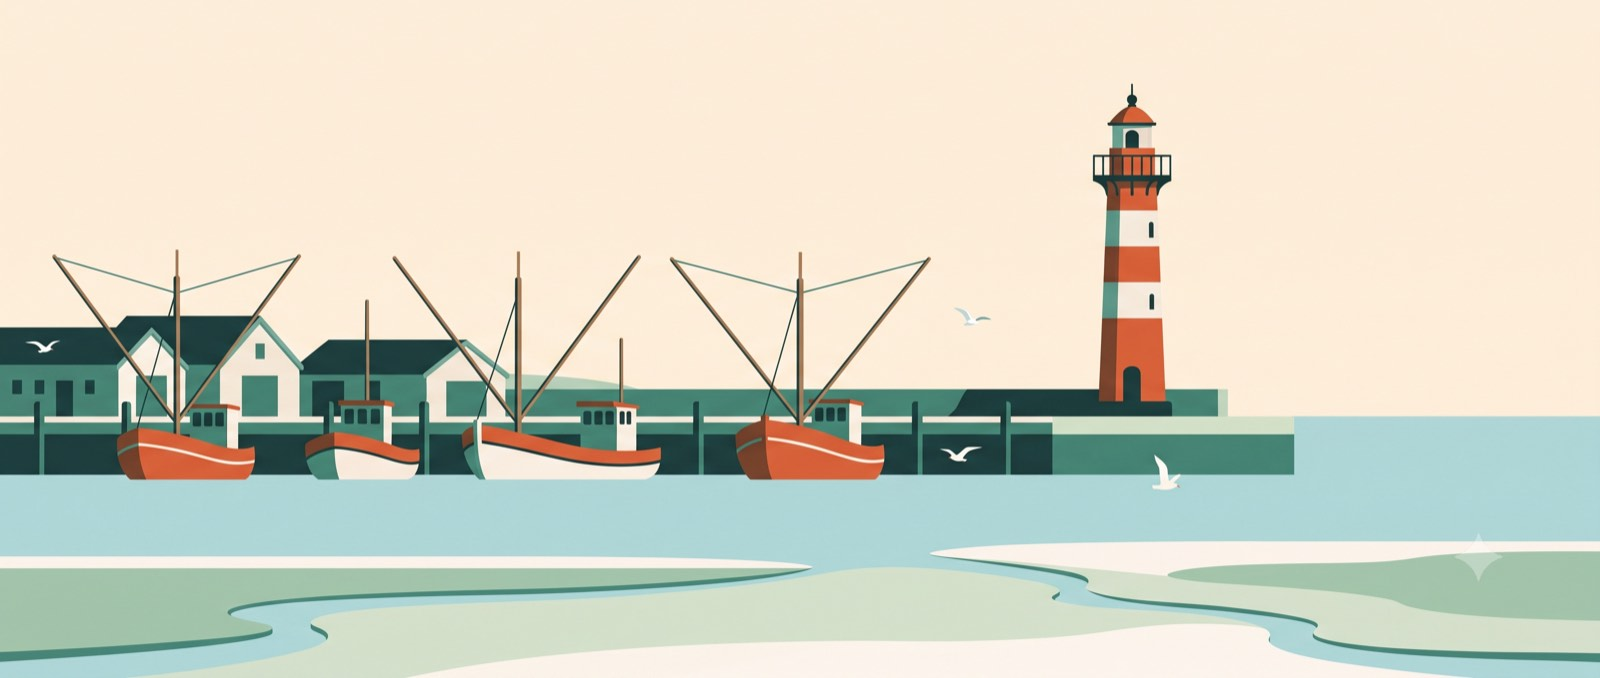
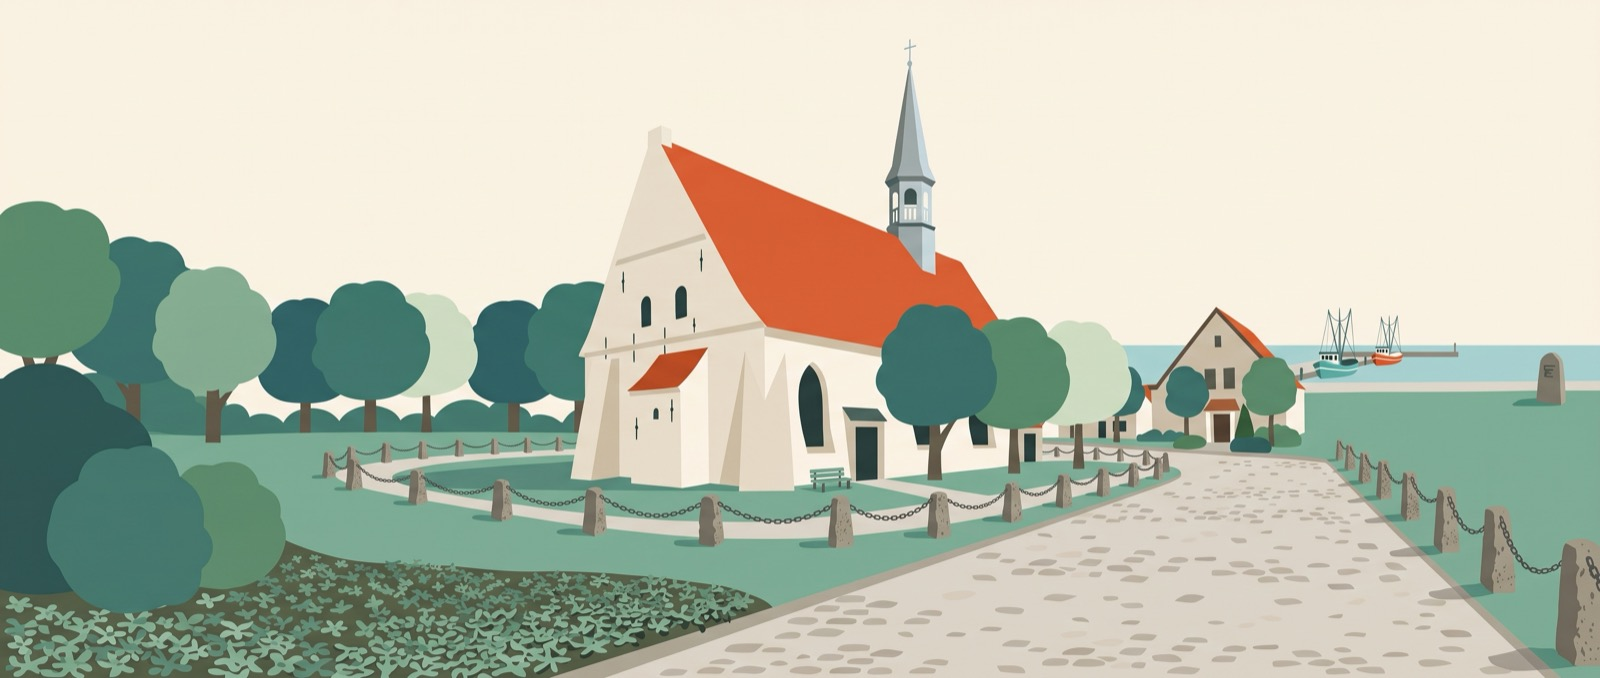
feat: Kirchen aller Gemeinden in App und auf der Landingpage
Fünf weitere Motive (Wöhrden, Süderdithmarscher Köge, Neuenkirchen, Wesseln,
Hemmingstedt) schließen die letzten Lücken: Von 514 Terminen ohne eigenes Foto
zeigen jetzt 504 die Kirche ihrer Gemeinde statt eines Landschaftsbildes — 98 %
statt zuvor 92 %.

Drei weitere Schlüssel tragen ein Präfix aus ChurchDesk ("kirche wesseln",
"kg hemmingstedt") oder fassen mehrere Orte zusammen ("vereinigte
süderdithmarscher köge"). Dass `parish` vor `city` geprüft wird, löst auch die
Grenzfälle richtig auf: Ein Termin des Kirchspiels Neuenkirchen in der Stadt
Wesselburen bekommt die Neuenkirchener Kirche — und umgekehrt.

Auf der Landingpage stehen nun alle Gemeinden im selben Dreier-Raster, jede
gleich groß und mit Namen; vorher hatten vier Orte große Kacheln und der Rest
kam nicht vor. Der Bildausschnitt sitzt höher, damit die Türme nicht oben
abgeschnitten werden — daran erkennt man die Kirche. Nur das Kohlfeld steht
weiterhin breit am Ende, weil es für keine Gemeinde steht.

Claude-Session: https://claude.ai/code/session_01T2rXfny4vsRw1Pe3vE1mct

diff --git a/apps/web/index.html b/apps/web/index.html
@@ -144,17 +144,24 @@
   .places{padding:var(--space-4xl) 0 var(--space-sm)}
   .places h2{margin-bottom:var(--space-sm)}
   .places .sub{color:var(--muted);margin:0 0 var(--space-xxl);max-width:52ch}
-  .place-grid{display:grid;grid-template-columns:repeat(2,1fr);gap:var(--space-xl)}
+  /* Alle Gemeinden gleich groß, zu dritt: keine bekommt eine größere Kachel als
+     die andere — die Kirchen stehen nebeneinander, nicht in einer Rangfolge. */
+  .place-grid{display:grid;grid-template-columns:repeat(3,1fr);gap:var(--space-lg)}
   .place{margin:0;border-radius:var(--radius-lg);overflow:hidden;background:var(--surface);border:1px solid var(--border)}
-  .place img{display:block;width:100%;height:clamp(130px,17vw,190px);object-fit:cover;object-position:center 62%}
+  /* `center 45%`: in der flachen Kachel schnitte ein tieferer Ausschnitt die
+     Turmspitzen ab — und der Turm ist das, woran man die Kirche erkennt. */
+  .place img{display:block;width:100%;height:clamp(110px,12vw,150px);object-fit:cover;object-position:center 45%}
   .place figcaption{
-    padding:var(--space-md) var(--space-lg);font-weight:600;font-size:var(--text-body);color:var(--ink);
+    padding:var(--space-sm) var(--space-md);font-weight:600;font-size:var(--text-label);color:var(--ink);
     border-top:1px solid var(--border);
   }
+  /* Das Landschaftsmotiv steht für keine Gemeinde und schließt die Reihe ab —
+     als einziges über die volle Breite, ohne Bildunterschrift-Betonung. */
   .place-wide{grid-column:1 / -1}
-  .place-wide img{height:clamp(150px,19vw,220px);object-position:center 70%}
+  .place-wide img{height:clamp(140px,16vw,190px);object-position:center 70%}
   .place-wide figcaption{color:var(--muted);font-weight:500}
-  @media (max-width:640px){ .place-grid{grid-template-columns:1fr} }
+  @media (max-width:900px){ .place-grid{grid-template-columns:repeat(2,1fr)} }
+  @media (max-width:520px){ .place-grid{grid-template-columns:1fr} }
 
   /* Info */
   .info{padding:var(--space-4xl) 0}
@@ -310,6 +317,76 @@
           <img src="/hennstedt.jpg" alt="St. Secundus in Hennstedt"
                width="1600" height="679" loading="lazy">
           <figcaption>Hennstedt</figcaption>
+        </figure>
+        <figure class="place">
+          <img src="/brunsbuettel.jpg" alt="Die Jakobuskirche in Brunsbüttel"
+               width="1600" height="678" loading="lazy">
+          <figcaption>Brunsbüttel</figcaption>
+        </figure>
+        <figure class="place">
+          <img src="/michaelisdonn.jpg" alt="Die St.-Michaelis-Kirche in St. Michaelisdonn"
+               width="1600" height="678" loading="lazy">
+          <figcaption>St. Michaelisdonn</figcaption>
+        </figure>
+        <figure class="place">
+          <img src="/marne.jpg" alt="Die Maria-Magdalenen-Kirche in Marne"
+               width="1600" height="678" loading="lazy">
+          <figcaption>Marne</figcaption>
+        </figure>
+        <figure class="place">
+          <img src="/albersdorf.jpg" alt="Die St.-Remigius-Kirche in Albersdorf"
+               width="1600" height="678" loading="lazy">
+          <figcaption>Albersdorf</figcaption>
+        </figure>
+        <figure class="place">
+          <img src="/burg.jpg" alt="Die Petri-Kirche in Burg"
+               width="1600" height="678" loading="lazy">
+          <figcaption>Burg</figcaption>
+        </figure>
+        <figure class="place">
+          <img src="/heide.jpg" alt="Die St.-Jürgen-Kirche in Heide"
+               width="1600" height="678" loading="lazy">
+          <figcaption>Heide</figcaption>
+        </figure>
+        <figure class="place">
+          <img src="/woehrden.jpg" alt="Die St.-Nicolai-Kirche in Wöhrden"
+               width="1600" height="678" loading="lazy">
+          <figcaption>Wöhrden</figcaption>
+        </figure>
+        <figure class="place">
+          <img src="/eddelak.jpg" alt="Die Kirche in Eddelak mit ihrem hölzernen Glockenturm"
+               width="1600" height="678" loading="lazy">
+          <figcaption>Eddelak</figcaption>
+        </figure>
+        <figure class="place">
+          <img src="/pahlen.jpg" alt="Die Kirche in Pahlen"
+               width="1600" height="678" loading="lazy">
+          <figcaption>Pahlen und Delve</figcaption>
+        </figure>
+        <figure class="place">
+          <img src="/weddingstedt.jpg" alt="Die Kirche in Weddingstedt"
+               width="1600" height="678" loading="lazy">
+          <figcaption>Weddingstedt</figcaption>
+        </figure>
+        <figure class="place">
+          <img src="/neuenkirchen.jpg" alt="Die Kirche in Neuenkirchen"
+               width="1600" height="678" loading="lazy">
+          <figcaption>Neuenkirchen</figcaption>
+        </figure>
+        <figure class="place">
+          <img src="/wesseln.jpg" alt="Die Kirche in Wesseln"
+               width="1600" height="678" loading="lazy">
+          <figcaption>Wesseln</figcaption>
+        </figure>
+        <figure class="place">
+          <img src="/hemmingstedt.jpg" alt="Die Kirche in Hemmingstedt"
+               width="1600" height="678" loading="lazy">
+          <figcaption>Hemmingstedt</figcaption>
+        </figure>
+        <figure class="place">
+          <img src="/koege.jpg" alt="Die Kirche der Vereinigten Süderdithmarscher Köge"
+               width="1600" height="678" loading="lazy">
+          <figcaption>Süderdithmarscher Köge</figcaption>
         </figure>
         <figure class="place place-wide">
           <img src="/kohl.jpg" alt="Kohlfelder in der Dithmarscher Marsch"

diff --git a/apps/app/lib/placeholders.ts b/apps/app/lib/placeholders.ts
@@ -38,10 +38,14 @@ const NEUTRAL_WIDE = [PH_DEICH_WIDE, PH_KOHL_WIDE] as const;
  * Gemeinde/Ort → eigenes Motiv, quadratischer Zuschnitt (Liste).
  *
  * Schlüssel ist `parish` bzw. `city` in Kleinschreibung, so wie sie aus
- * ChurchDesk kommen — deshalb steht hier „kg heide" mit Präfix und
- * „st. michaelisdonn" in der Schreibweise des Kirchspiels. Der Ort schwankt
- * dort zwischen „Sankt" und „St."; weil `parish` zuerst greift, genügt ein
- * Eintrag.
+ * ChurchDesk kommen — deshalb tragen manche ein Präfix („kg heide",
+ * „kg hemmingstedt", „kirche wesseln") und „st. michaelisdonn" steht in der
+ * Schreibweise des Kirchspiels. Der Ort schwankt dort zwischen „Sankt" und
+ * „St."; weil `parish` zuerst greift, genügt ein Eintrag.
+ *
+ * Dass `parish` vor `city` kommt, entscheidet auch die Grenzfälle richtig:
+ * Ein Termin des Kirchspiels Neuenkirchen in der Stadt Wesselburen bekommt
+ * die Neuenkirchener Kirche, nicht die Wesselburener — und umgekehrt.
  */
 const ORT_PLACEHOLDERS: Record<string, number> = {
   büsum: require("../assets/ph-buesum.jpg"),
@@ -57,6 +61,11 @@ const ORT_PLACEHOLDERS: Record<string, number> = {
   eddelak: require("../assets/ph-eddelak.jpg"),
   "pahlen und delve": require("../assets/ph-pahlen.jpg"),
   weddingstedt: require("../assets/ph-weddingstedt.jpg"),
+  wöhrden: require("../assets/ph-woehrden.jpg"),
+  "vereinigte süderdithmarscher köge": require("../assets/ph-koege.jpg"),
+  neuenkirchen: require("../assets/ph-neuenkirchen.jpg"),
+  "kirche wesseln": require("../assets/ph-wesseln.jpg"),
+  "kg hemmingstedt": require("../assets/ph-hemmingstedt.jpg"),
 };
 
 /** Dieselben Motive im Panorama-Zuschnitt (Detailansicht). */
@@ -74,6 +83,11 @@ const ORT_PLACEHOLDERS_WIDE: Record<string, number> = {
   eddelak: require("../assets/ph-eddelak-wide.jpg"),
   "pahlen und delve": require("../assets/ph-pahlen-wide.jpg"),
   weddingstedt: require("../assets/ph-weddingstedt-wide.jpg"),
+  wöhrden: require("../assets/ph-woehrden-wide.jpg"),
+  "vereinigte süderdithmarscher köge": require("../assets/ph-koege-wide.jpg"),
+  neuenkirchen: require("../assets/ph-neuenkirchen-wide.jpg"),
+  "kirche wesseln": require("../assets/ph-wesseln-wide.jpg"),
+  "kg hemmingstedt": require("../assets/ph-hemmingstedt-wide.jpg"),
 };
 
 /**

diff --git a/apps/app/test/placeholders.test.ts b/apps/app/test/placeholders.test.ts
@@ -28,6 +28,11 @@ const MOTIVE = [
   "eddelak",
   "pahlen",
   "weddingstedt",
+  "woehrden",
+  "koege",
+  "neuenkirchen",
+  "wesseln",
+  "hemmingstedt",
 ];
 
 /** Breite/Höhe eines Bildes über `sips` (macOS) — auf anderen Systemen übersprungen. */
@@ -98,6 +103,11 @@ describe("Zuordnung Gemeinde → Motiv", () => {
     "eddelak",
     "pahlen und delve",
     "weddingstedt",
+    "wöhrden",
+    "vereinigte süderdithmarscher köge",
+    "neuenkirchen",
+    "kirche wesseln",
+    "kg hemmingstedt",
   ];
 
   // `placeholders.ts` lässt sich hier nicht importieren: `require()` auf ein

diff --git a/CHANGELOG.md b/CHANGELOG.md
@@ -24,13 +24,10 @@ sammelt sich hier alles, was seit Projektbeginn entstanden ist.
   Kirchen-Koordinaten als Fallback.
 - **Landingpage** (`apps/web`) auf `moin-kark.de`, Web-App auf
   `karte.moin-kark.de` — mit eigens erstellten Dithmarschen-Illustrationen
-  (Deich mit Schafen, Kohlfelder) und den Kirchen der Gemeinden: Meldorfer Dom,
-  St. Bartholomäus Wesselburen, St. Secundus Hennstedt, St. Clemens Büsum,
-  Jakobuskirche Brunsbüttel, St.-Michaelis St. Michaelisdonn,
-  Maria-Magdalenen Marne, St. Remigius Albersdorf, Petri-Kirche Burg,
-  St.-Jürgen Heide, dazu Eddelak, Pahlen und Weddingstedt.
+  (Deich mit Schafen, Kohlfelder) und den Kirchen aller Gemeinden, jede mit
+  ihrem Namen und alle gleich groß nebeneinander.
 - Veranstaltungen ohne eigenes Foto zeigen die Kirche ihrer Gemeinde statt eines
-  allgemeinen Landschaftsbildes — für neun von zehn Terminen passt das Bild jetzt
+  allgemeinen Landschaftsbildes — für 98 von 100 Terminen passt das Bild jetzt
   zum Ort.
 - Standort & Umkreis: Live-Standort, der Marker folgt der Bewegung; „Zu meinem
   Standort“ fällt bei fernem Standort auf die Dithmarschen-Übersicht zurück.
